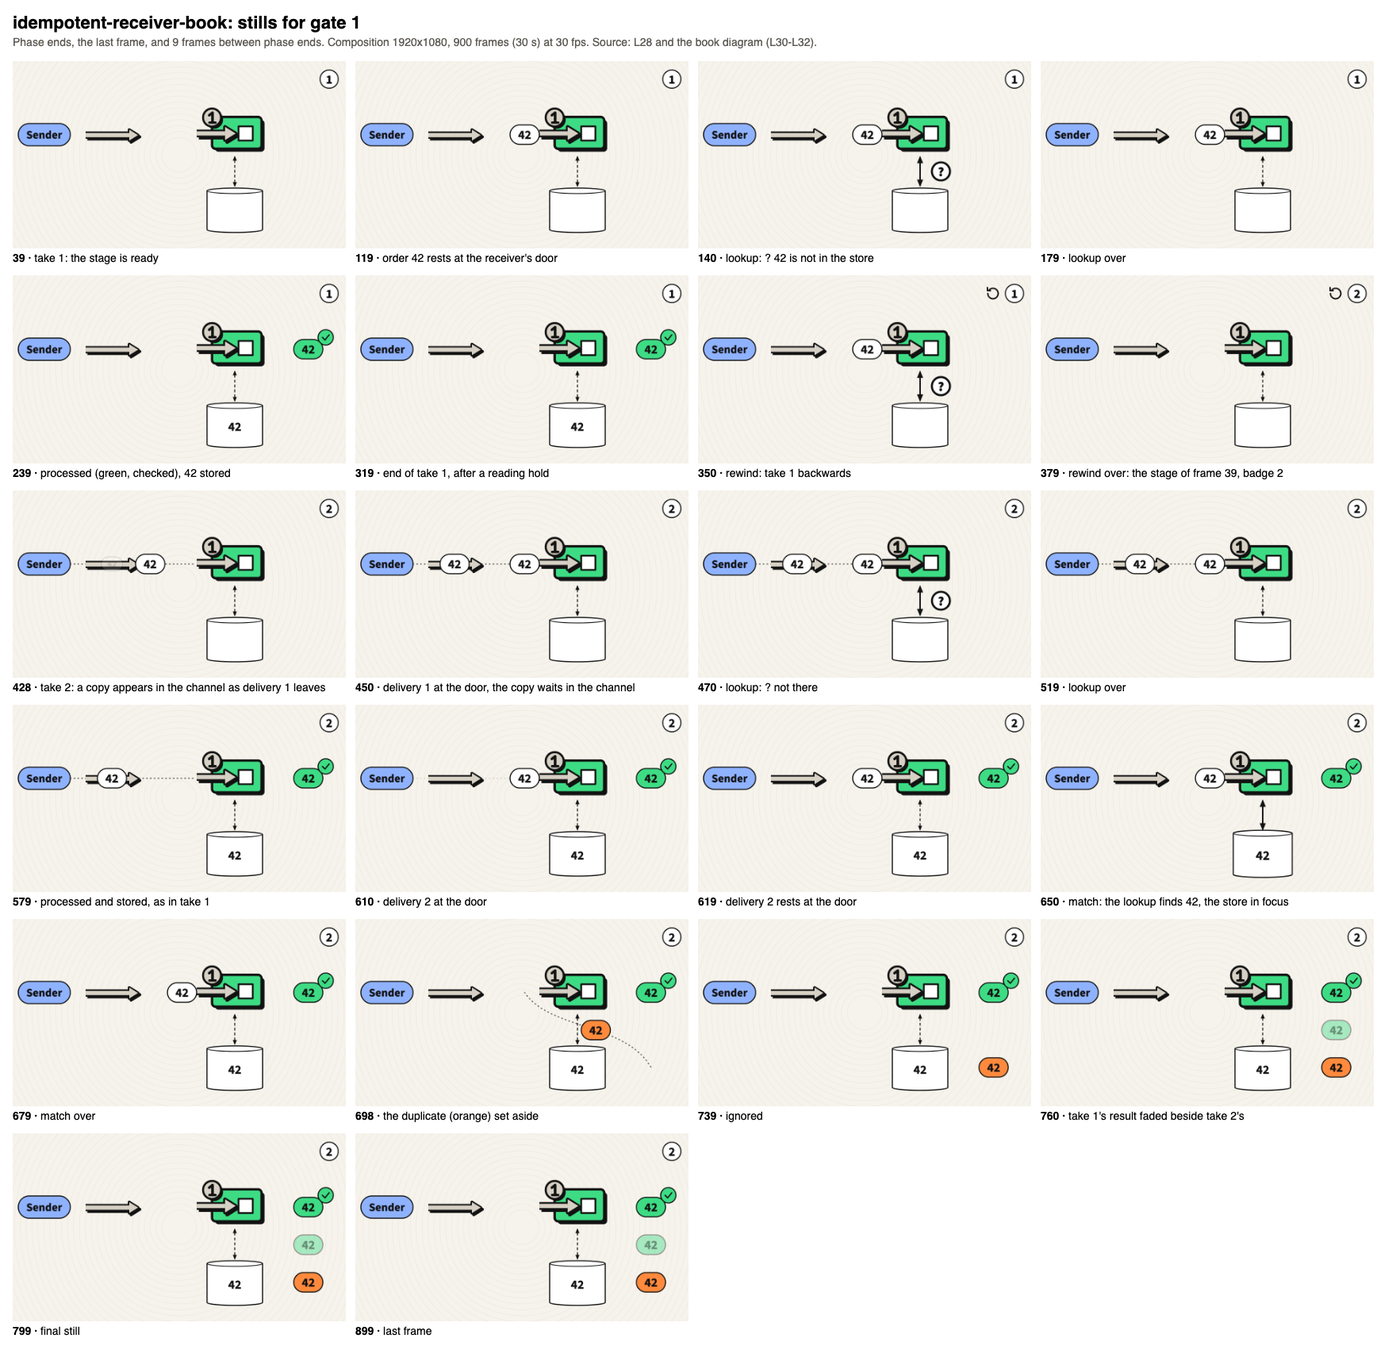
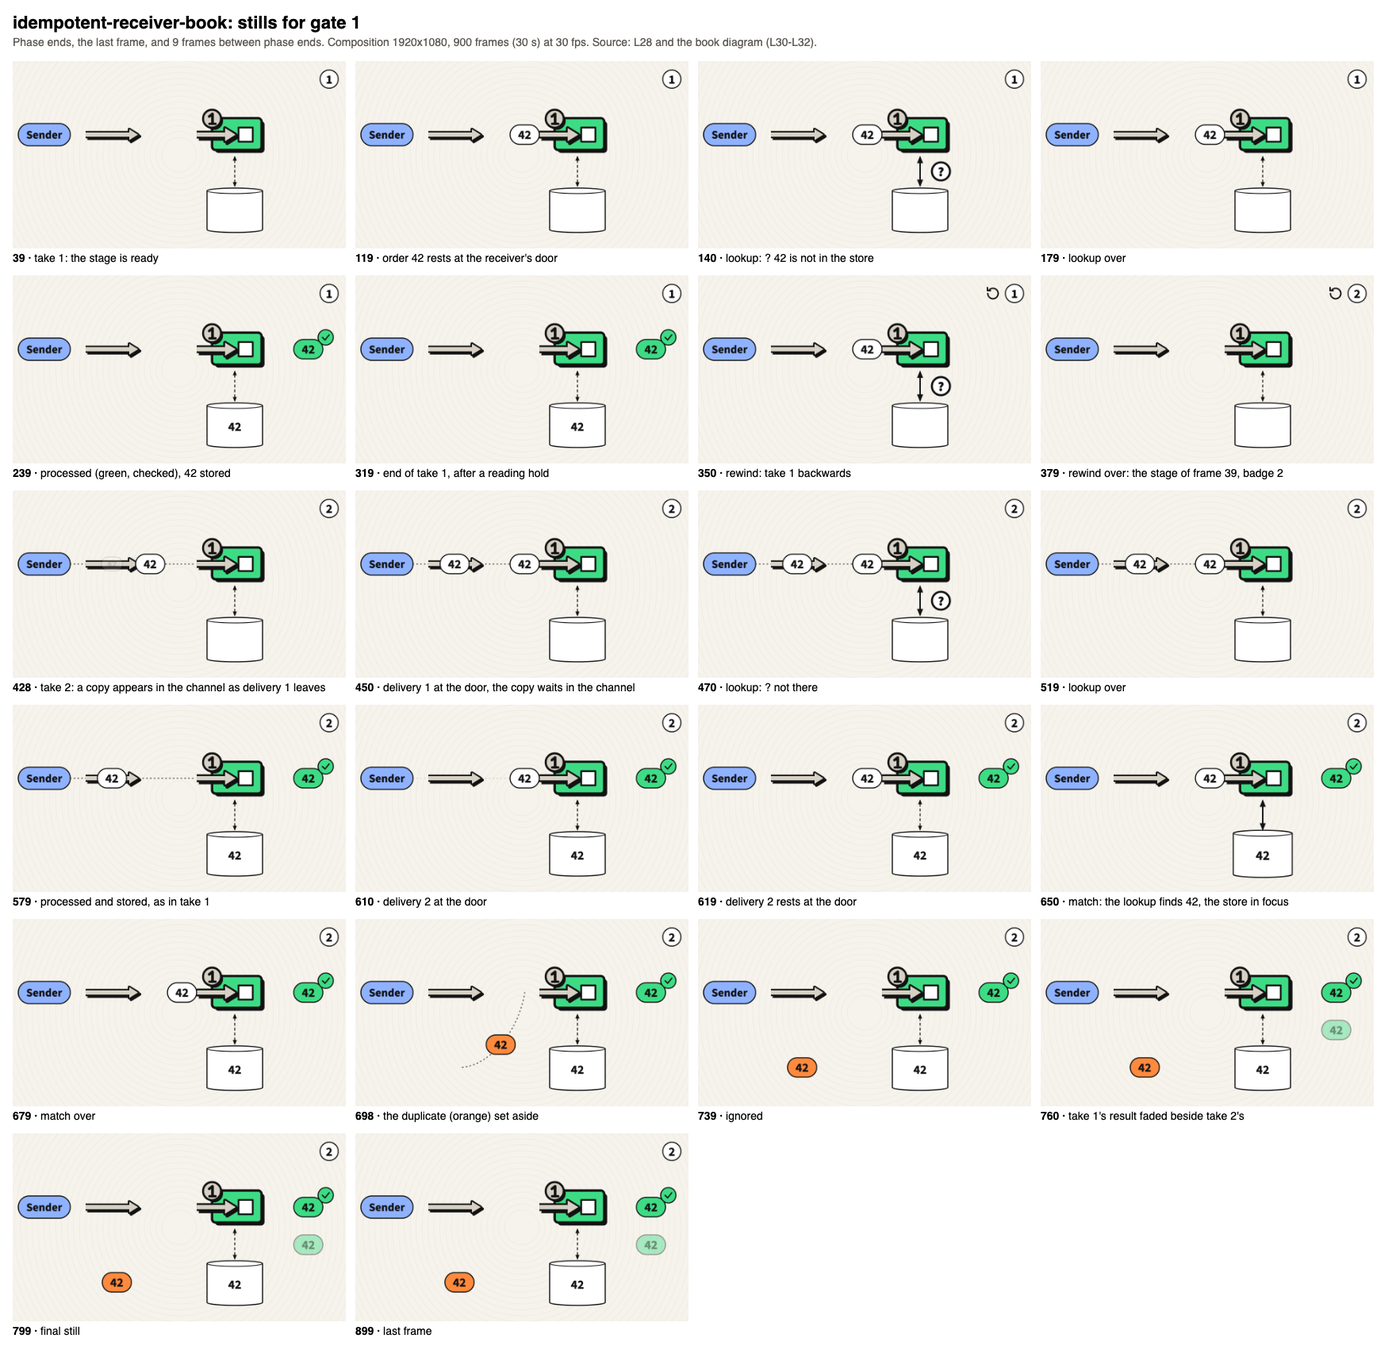
feat: book scene spec review round 2 fixes (SW-160)
Task 4.5 frames, the ? device described one way with the owner's
choice in design 7, the EIP icons' offset shadows (ADR 0009) as a G1
point, neutral options for every G1 point, the arrow-line rule for
ICON_ARROW_Y (20 and 23), the duplicate set aside clear of the store
and the lookup, and the lookup checked over every frame.

diff --git a/test/scenes/idempotent-receiver-book-layout.test.ts b/test/scenes/idempotent-receiver-book-layout.test.ts
@@ -23,13 +23,13 @@ describe("Idempotent Receiver book layout", () => {
     expect(LANE).toBe(212);
     expect(BOOK_TEXT).toEqual({ word: 33, strong: 36 });
     expect(TOKEN).toEqual({ height: 56, minWidth: 84, perCharacter: 19, padding: 44 });
-    expect(ICON_ARROW_Y).toEqual({ "point-to-point-channel": 19.5, "idempotent-receiver": 24 });
+    expect(ICON_ARROW_Y).toEqual({ "point-to-point-channel": 20, "idempotent-receiver": 23 });
     expect(SENDER).toEqual({ x: 16, y: 180, width: 150, height: 64 });
     expect(CHANNEL).toEqual({ x: 196, scale: 2.8 });
     expect(RECEIVER).toEqual({ x: 520, scale: 3.4 });
     expect(STORE).toEqual({ x: 560, y: 366, width: 160, height: 128 });
     expect(LOOKUP).toEqual({ from: [640, 274], to: [640, 362], rest: 2.5, active: 4 });
-    expect(AT).toEqual({ sender: { x: 212, y: 212 }, channel: { x: 286, y: 212 }, door: { x: 488, y: 212 }, processed: { x: 852, y: 212 }, ghost: { x: 852, y: 320 }, ignored: { x: 852, y: 428 } });
+    expect(AT).toEqual({ sender: { x: 212, y: 212 }, channel: { x: 286, y: 212 }, door: { x: 488, y: 212 }, processed: { x: 852, y: 212 }, ghost: { x: 852, y: 320 }, ignored: { x: 300, y: 428 } });
     expect(CHECK).toEqual({ cx: 902, cy: 178, r: 22 });
     expect(QUESTION).toEqual({ cx: 700, cy: 318, scale: 2 });
     expect(BADGE).toEqual({ cx: 912, cy: 52 });
@@ -39,7 +39,7 @@ describe("Idempotent Receiver book layout", () => {
       send: "M 212,212 L 286,212",
       deliver: "M 286,212 L 488,212",
       process: "M 488,212 C 600,110 760,140 852,212",
-      ignore: "M 488,212 C 560,320 780,300 852,428",
+      ignore: "M 488,212 C 470,330 380,428 300,428",
     });
     expect(GUIDES).toEqual({ p1: "M 166,212 L 520,212", p2: ROUTES.process, p3: ROUTES.ignore });
   });
@@ -114,7 +114,7 @@ describe("Idempotent Receiver book text placement", () => {
   });
 
   test("Collision rejected", () => {
-    const moved = FRAMES.map((f) => ({ ...f, tokens: moveElement(f.tokens, "ghost", 0, 428 - 320) }));
+    const moved = FRAMES.map((f) => ({ ...f, tokens: moveElement(f.tokens, "ghost", 300 - 852, 428 - 320) }));
     expect(placementProblems(moved)[0]).toBe('frame 750: ghost "42" crosses copy "42"');
   });
 });

diff --git a/src/scenes/eip-book.ts b/src/scenes/eip-book.ts
@@ -18,11 +18,12 @@ export const BOOK_TEXT = { word: 33, strong: 36 } as const;
 export const LANE = 212;
 
 /**
- * The y of each used icon's message arrow inside its 64 × 40 drawing
- * (src/pieces/eip-icons.ts), so `iconOnLane` puts that arrow on the lane.
- * A pattern's scene adds its icons here.
+ * The y of each used icon's message arrow inside its 64 × 40 drawing: the y of
+ * the arrow's line (its `M x,y H …` path in src/pieces/eip-icons.ts), not of
+ * its offset shadow, so `iconOnLane` puts that line on the lane. A pattern's
+ * scene adds its icons here, read the same way.
  */
-export const ICON_ARROW_Y = { "point-to-point-channel": 19.5, "idempotent-receiver": 24 } as const;
+export const ICON_ARROW_Y = { "point-to-point-channel": 20, "idempotent-receiver": 23 } as const;
 export type LaneIcon = keyof typeof ICON_ARROW_Y;
 /** The icon's drawing width at scale 1 (EIP_ICON_WIDTH). */
 export const ICON_WIDTH = 64;

diff --git a/src/scenes/idempotent-receiver-book/layout.ts b/src/scenes/idempotent-receiver-book/layout.ts
@@ -32,7 +32,7 @@ export const AT = {
   door: { x: 488, y: LANE },
   processed: { x: 852, y: LANE },
   ghost: { x: 852, y: 320 },
-  ignored: { x: 852, y: 428 },
+  ignored: { x: 300, y: 428 },
 } as const satisfies Record<string, Point>;
 /** The check on the processed message. */
 export const CHECK = { cx: 902, cy: 178, r: 22 } as const;
@@ -59,7 +59,7 @@ export const ROUTES: Readonly<Record<string, string>> = {
   send: `M ${p(AT.sender)} L ${p(AT.channel)}`,
   deliver: `M ${p(AT.channel)} L ${p(AT.door)}`,
   process: `M ${p(AT.door)} C 600,110 760,140 ${p(AT.processed)}`,
-  ignore: `M ${p(AT.door)} C 560,320 780,300 ${p(AT.ignored)}`,
+  ignore: `M ${p(AT.door)} C 470,330 380,428 ${p(AT.ignored)}`,
 };
 
 /** The dashed guides (stage units), drawn × STAGE_SCALE by `MotionPath`: the lane, then the two ways out. */

diff --git a/test/scenes/idempotent-receiver-book.test.ts b/test/scenes/idempotent-receiver-book.test.ts
@@ -120,7 +120,7 @@ describe("Idempotent Receiver book take 1", () => {
     expect(STATES[120].lookup).toBe(true);
     expect(STATES[124].question).toBeNull();
     expect(STATES[154].question).toEqual({ opacity: 1, scale: 1 });
-    expect(STATES[169].lookup).toBe(true);
+    for (const f of FRAMES.slice(120, 170)) expect(STATES[f].lookup, `frame ${f}`).toBe(true);
     expect(STATES[170].question).toBeNull();
     expect(STATES[170].lookup).toBe(false);
     expect(STATES[179].stored).toBeNull();

diff --git a/openspec/changes/idempotent-receiver-book-scene/design.md b/openspec/changes/idempotent-receiver-book-scene/design.md
@@ -15,7 +15,7 @@ Every beat animates line 28 of the English page (the Portuguese page has the sam
 | The duplicate is found and ignored | the store comes into focus as the lookup finds 42; the second delivery turns orange and is set aside | L28 "ignores any message that arrives with a known ID"; L32 "if yes, it ignores the duplicate" |
 | Same effect, once or several times | take 1's result fades in beside take 2's: one processed message in both | L28 "produces the same effect whether it is received once or several times" |
 
-**The channel's icon (a choice, for the owner's ok).** The page and its diagram say "Message channel" (L32, label `channel`, drawn there as a `queueNode`). The package has no generic Message Channel icon; the scene draws the closest one, `point-to-point-channel`, the pipe of the EIP notation (design §7, point 5).
+**The channel's icon (a choice, for the owner's ok).** The page and its diagram say "Message channel" (L32, label `channel`, drawn there as a `queueNode`). The package has no generic Message Channel icon; the scene draws `point-to-point-channel`, the icon of the Point-to-Point Channel pattern, a channel type the page does not name (design §7, point 5).
 
 ## 2. Decisions
 
@@ -28,7 +28,7 @@ The card asks that this first EIP video yield the reusable book scene type, so t
 | Everything in the scene's folder; extract with the second book scene | the second scene would copy the lane, the token and the store |
 | A new scene kind `eip-book` with its own checks | a book scene is a `takes` or a `sequence` scene; it needs no new rule, only shared drawing |
 | A generic book stage and frame builder now (tokens, rests, routes and outcomes as data) | it would be designed from one example; what the next pattern needs (a dead-letter channel, a correlation pair) is not known yet |
-| **A React-free module beside the kinds, with only what every book scene draws (chosen)** | the lane (`LANE` 212), the text sizes (`BOOK_TEXT` 33 and 36), the message token (`messageToken`, a pill 56 high with its ID at 36), an EIP icon with its message arrow on the lane (`iconOnLane`, from `ICON_ARROW_Y` per icon), and the store empty or holding an ID (`emptyStore`, `storedId`) |
+| **A React-free module beside the kinds, with only what every book scene draws (chosen)** | the lane (`LANE` 212), the text sizes (`BOOK_TEXT` 33 and 36), the message token (`messageToken`, a pill 56 high with its ID at 36), an EIP icon with its message arrow on the lane (`iconOnLane`, from `ICON_ARROW_Y` per icon: the y of the arrow's line in the icon drawing, not of its shadow), and the store empty or holding an ID (`emptyStore`, `storedId`) |
 
 What the chosen module does not cover, said plainly: the next book scene still writes its own `scene.ts`, `timeline.ts`, `layout.ts`, `frame.ts`, `stage.ts` and `Scene.tsx` (here about 400 lines of code, most of it frame and stage logic), reusing the module's drawing and this scene's files as a model. Whether that meets the card's "almost only data", or a generic builder should be extracted now or with the second book scene, is the owner's call (design §7, point 4).
 
@@ -54,7 +54,7 @@ After `sdd-scene-3-archive` and before `circuit-breaker-topology`, which stays l
 
 `TakesDevice` gains three names, so the phases list every device the scene uses:
 
-- `lookupMark`: the `?` shown at a lookup that finds nothing (marked choice 1 of the gate-0 README, approved with concept B). It stands for the diagram's decision (label `decision`), without words.
+- `lookupMark`: the `?` shown while a lookup finds nothing, that is the diagram's decision (label `decision`) answered "no". The gate-0 README's marked choice 1 says "the question mark at each lookup", while its sheet B-book drew no `?` at the match; the scene follows the sheet, and the owner chooses at G1 (§7, point 7).
 - `ghost`: take 1's processed token, faded (`motion.dimOpacity`), beside take 2's at the end (marked choice 3, approved). As the topology scene's ghost, it compares the two takes' effect.
 - `matchFocus`: the store and its `42` come into focus (`motion.focusScale`) while the lookup finds 42 (§2.8). It shows the lookup line 28 and the diagram state ("arrives with a known ID", "if yes"), no new fact; it is new since gate 0, for the owner's ok at G1.
 
@@ -72,9 +72,9 @@ The sheet drew two copies side by side between the channel and the receiver. In 
 
 At this change's spec stage the owner set the rule for these videos: a short video that explains is best, but length must not cost understanding ("não vamos nos apegar a isso pq senão podemos cometer o erro básico que é a pressa que se torna inimiga da perfeição"). The first stills ran 26 s; this design spends more time where it helps the reading:
 
-- a 22-frame rest at the receiver's door before each lookup (98–119 and 438–459, where take 2 also shows the copy waiting in the channel) and before the match (602–619);
+- a rest at the receiver's door before each lookup: 22 frames (98–119 and 438–459, where take 2 also shows the copy waiting in the channel), and 18 frames before the match (602–619);
 - take 1's result held for 80 frames after its check settles (240–319);
-- the match: the store in focus (§2.5) from 625, held to 665, settling back by 695, before the duplicate turns orange at 680;
+- the match: the store in focus (§2.5) from 625, held from 655 to 665, then falling back; the duplicate turns orange at 680, while the focus still settles, and the store is at rest again from 695;
 - a 32-frame rest after the ignore before take 1's result fades in (708–739).
 
 The scene is 30 s (900 frames). The length is a result of these beats, not a target.
@@ -157,11 +157,11 @@ How things move: the stage nodes (`sender`, `channel`, `receiver`, `store`) and 
 |---|---|
 | Lane | y 212 |
 | Sender | pill x 16, y 180, 150 × 64, `color.state.caller`, `Sender` at 33 |
-| Channel | `point-to-point-channel` at x 196, scale 2.8, its arrow (y 19.5 in the icon) on the lane |
-| Receiver | `idempotent-receiver` at x 520, scale 3.4, its arrow (y 24) on the lane |
+| Channel | `point-to-point-channel` at x 196, scale 2.8, its arrow line (y 20 in the icon) on the lane |
+| Receiver | `idempotent-receiver` at x 520, scale 3.4, its arrow line (y 23) on the lane |
 | Store | x 560, y 366, 160 × 128; `42` at 36 when stored; focus about its centre |
 | Lookup | `messageArrow` (640, 274) → (640, 362), both heads; dashed width 2.5 at rest, solid width 4 while looking up |
-| Token rests (`AT`) | sender (212, 212), channel (286, 212), door (488, 212), processed (852, 212), ghost (852, 320), ignored (852, 428) |
+| Token rests (`AT`) | sender (212, 212), channel (286, 212), door (488, 212), processed (852, 212), ghost (852, 320), ignored (300, 428): the duplicate is set aside away from the store and the lookup |
 | Token | pill 56 high, at least 84 wide (19 per character + 44), `42` at 36 |
 | Check | `checkBadge` (902, 178), r 22 |
 | `?` | `questionToken` (700, 318), scale 2 |
@@ -171,7 +171,7 @@ How things move: the stage nodes (`sender`, `channel`, `receiver`, `store`) and 
 | Route `send` | `M 212,212 L 286,212` |
 | Route `deliver` | `M 286,212 L 488,212` |
 | Route `process` | `M 488,212 C 600,110 760,140 852,212` |
-| Route `ignore` | `M 488,212 C 560,320 780,300 852,428` (between the receiver and the store) |
+| Route `ignore` | `M 488,212 C 470,330 380,428 300,428` (down and back from the door, clear of the lookup and the store) |
 | Guides | P1 `M 166,212 L 520,212`; P2 = `process`; P3 = `ignore`; drawn × 2 by `MotionPath` |
 
 ### 6.2 Layers (SCN-6), bottom to top
@@ -185,11 +185,11 @@ How things move: the stage nodes (`sender`, `channel`, `receiver`, `store`) and 
 
 ## 7. Open points for G1
 
-1. **The match.** Applied by the owner's rule (§2.8): the store and its `42` come into focus while the lookup finds 42 (`matchFocus`, §2.5). Recommended: keep.
-2. **Length.** Answered by the owner on 2026-11-27: understanding before length (§2.8); 30 s.
-3. **The copy in the channel** (§2.6) rather than two tokens leaving together. Recommended: accept.
-4. **How much of the book scene type is shared** (§2.1). Today the next book scene reuses the drawing module and copies this scene's frame and stage logic (about 400 lines). Options: (a) accept, and extract a generic builder with the second book scene, when two patterns show what is common (recommended); (b) extract a generic book stage and frame builder in this change, before the scene ships.
-5. **The channel's icon** (§1): `point-to-point-channel` for the page's "Message channel". Options: (a) keep the EIP pipe (recommended: the book's notation for a channel); (b) a `queueNode` with no words; (c) a `queueNode` labelled `Message channel` at 33.
-6. **The receiver icon's own `1`.** The `idempotent-receiver` EIP icon carries a circled `1` (its "once" mark); in take 2 it sits on the same screen as the take badge `2`. Options: (a) keep the published icon (recommended: the badge is apart, top right); (b) ask the design system for a variant without the mark.
-
-Outside this change, for a design-system card if the owner wants one: `eipIcon` still draws its offset shadow copies, which ADR 0009 removed from every other piece.
+1. **The match.** The store and its `42` come into focus while the lookup finds 42 (`matchFocus`, §2.5), new since gate 0. Options: (a) keep the focus; (b) only the solid lookup arrow, no focus. Recommended: (a), the found ID is the beat line 28 turns on.
+2. **Length.** Answered by the owner on 2026-11-27: understanding before length (§2.8); the scene is 30 s.
+3. **The copy in the channel** (§2.6) rather than two tokens leaving together. Options: (a) the copy appears in the channel once the first delivery leaves; (b) two tokens leave the channel side by side, as the sheet drew them. Recommended: (a).
+4. **How much of the book scene type is shared** (§2.1). Today the next book scene reuses the drawing module and copies this scene's frame and stage logic (about 400 lines). Options: (a) extract a generic builder with the second book scene, when two patterns show what is common; (b) extract a generic book stage and frame builder in this change, before the scene ships. Recommended: (a).
+5. **The channel's icon** (§1): the page says "Message channel"; the package has no icon for it. Options: (a) keep `point-to-point-channel`, the icon of the Point-to-Point Channel pattern, a channel type the page does not name; (b) a `queueNode` with no words, as the diagram draws the channel's shape; (c) a `queueNode` labelled `Message channel` at 33, the diagram's label. Recommended: (b), the diagram's own shape without naming another pattern.
+6. **The receiver icon's own `1`.** The `idempotent-receiver` EIP icon carries a circled `1` (its "once" mark); in take 2 it shares the screen with the take badge `2`. Options: (a) keep the published icon (the badge is apart, top right); (b) ask the design system for a variant without the mark. Recommended: (a).
+7. **The `?` at the match.** Options: (a) the `?` only while a lookup finds nothing, as the sheet drew it (the scene today); (b) the `?` at every lookup, the match included, as the README's text said. Recommended: (a), so the match shows the found ID, not a question.
+8. **The EIP icons' offset shadows.** `eipIcon` draws the published notation's hard offset shadows (src/pieces/eip-icons.ts), which ADR 0009 removed from every other piece ("no piece passes a literal offset of its own"); this would be the first published video to show them, at scales 2.8 and 3.4. Options: (a) ship as is and open a design-system card to redraw the 26 icons; (b) a design-system change to `eipIcon` first, as SW-248 came before this scene; (c) an ADR 0009 amendment that exempts the published EIP notation. Recommended: (b), so the series' first video and every later one show the icons in the v2 grammar.

diff --git a/openspec/changes/idempotent-receiver-book-scene/proposal.md b/openspec/changes/idempotent-receiver-book-scene/proposal.md
@@ -4,7 +4,7 @@
 
 The wiki page "Idempotent Receiver in Mule" (`brunosouzas-content` at `0162e3a`, `writing/integration-patterns-in-mulesoft/idempotent-receiver-in-mulesoft.{en,pt}.md`) explains the pattern as the book describes it: "even when the sender sends a message only once, the receiver may receive it more than once"; the book "calls a message idempotent when it produces the same effect whether it is received once or several times"; "the receiver keeps the ID of each processed message and ignores any message that arrives with a known ID" (L28). Its book diagram shows the Sender sending order 42 once, the channel delivering it twice, and the receiver looking up the processed IDs, processing and storing on the first delivery and ignoring the second (L30–L32). The roadmap plans two neutral videos for every EIP page, the pattern as the book describes it and as Mule implements it, and this card (SW-160, formerly AB#145) is the first: from it come the two reusable scene types, so the next pages are mostly data.
 
-At gate 0, on **2026-11-27**, the owner chose **concept B, "one stage, two takes", for both scene types**, with every recommendation (pull request #53; `docs/spikes/2026-11-27-idempotent-receiver-storyboard/`, `B-book.png`, README section "Owner's pick"). For the book scene that means: take 1, the channel delivers order 42 once; a rewind; take 2, the same order, sent once, is delivered twice; both takes end with the same effect. The marked reading devices were approved with it: the `?` at each lookup, take 1 as the definition's first half, and take 1's result faded beside take 2's. Question 6 sends the book scene's spec to this branch and the Mule scene to its own change; question 4 (an empty store) was delivered first by SW-248 (pull request #54, merged in `d26f254`).
+At gate 0, on **2026-11-27**, the owner chose **concept B, "one stage, two takes", for both scene types**, with every recommendation (pull request #53; `docs/spikes/2026-11-27-idempotent-receiver-storyboard/`, `B-book.png`, README section "Owner's pick"). For the book scene that means: take 1, the channel delivers order 42 once; a rewind; take 2, the same order, sent once, is delivered twice; both takes end with the same effect. The marked reading devices were approved with it: the `?` at the lookup that finds nothing (as the sheet drew it; design §7, point 7), take 1 as the definition's first half, and take 1's result faded beside take 2's. Question 6 sends the book scene's spec to this branch and the Mule scene to its own change; question 4 (an empty store) was delivered first by SW-248 (pull request #54, merged in `d26f254`).
 
 ## What Changes
 

diff --git a/openspec/changes/idempotent-receiver-book-scene/tasks.md b/openspec/changes/idempotent-receiver-book-scene/tasks.md
@@ -28,7 +28,7 @@ Card SW-160, from the gate-0 pick of 2026-11-27 (concept B for both scene types)
 - [x] 4.2 Local: `npm run stills -- idempotent-receiver-book` (14 PNGs) and `npx remotion still` at frames 140, 350, 428, 450, 470, 610, 650, 698 and 760 (the moments between phase ends). Open every PNG: overlaps, clipping, contrast, the tokens on their routes (MOT-5).
 - [x] 4.3 Local: the stills sheet into `docs/spikes/2026-11-27-idempotent-receiver-book/` for gate 1.
 - [ ] 4.4 Gate 1: the owner reads the spec and the stills' sheet; his answers (design §7) change the spec and the code in this branch, and a comment names the approved commit.
-- [ ] 4.5 Local, after gate 1: `npm run render -- idempotent-receiver-book`; read the web copy with `npx remotion ffmpeg -hide_banner -i …`; the web-MP4 sheet and its 341 px sheet; frames 680 and 779 rendered with `npx remotion still` and compared byte for byte. This proves "Idempotent Receiver book video verified from output (local)" (SCN-4, SCN-5).
+- [ ] 4.5 Local, after gate 1: `npm run render -- idempotent-receiver-book`; read the web copy with `npx remotion ffmpeg -hide_banner -i …`; the web-MP4 sheet and its 341 px sheet; frames 800 and 899 rendered with `npx remotion still` and compared byte for byte. This proves "Idempotent Receiver book video verified from output (local)" (SCN-4, SCN-5).
 - [ ] 4.6 The owner's look at the video (G3): the web MP4, its sheets and the Studio. His answers change the spec and the code in this branch before the archive.
 
 ## 5. Checks, docs and review

diff --git a/openspec/changes/idempotent-receiver-book-scene/specs/scene-catalogue/spec.md b/openspec/changes/idempotent-receiver-book-scene/specs/scene-catalogue/spec.md
@@ -179,7 +179,7 @@ Every settled word box (measured advance on the `fonts/` faces times effective s
 - **THEN** each checked box lies within x 12–948 and y 12–528 and none crosses another element's, and at frame 800 the checked words other than the `?` are the badge's `2`, the copy's, the ghost's, the message's and the stored `42`, and `Sender`
 
 #### Scenario: Collision rejected
-- **GIVEN** a fixture drawing the ghost token 108 units lower, on the ignored token
+- **GIVEN** a fixture drawing the ghost token moved onto the ignored token (by −552, +108)
 - **WHEN** the placement test runs
 - **THEN** its first problem is at frame 750, the ghost's `42` crossing the copy's `42`
 
